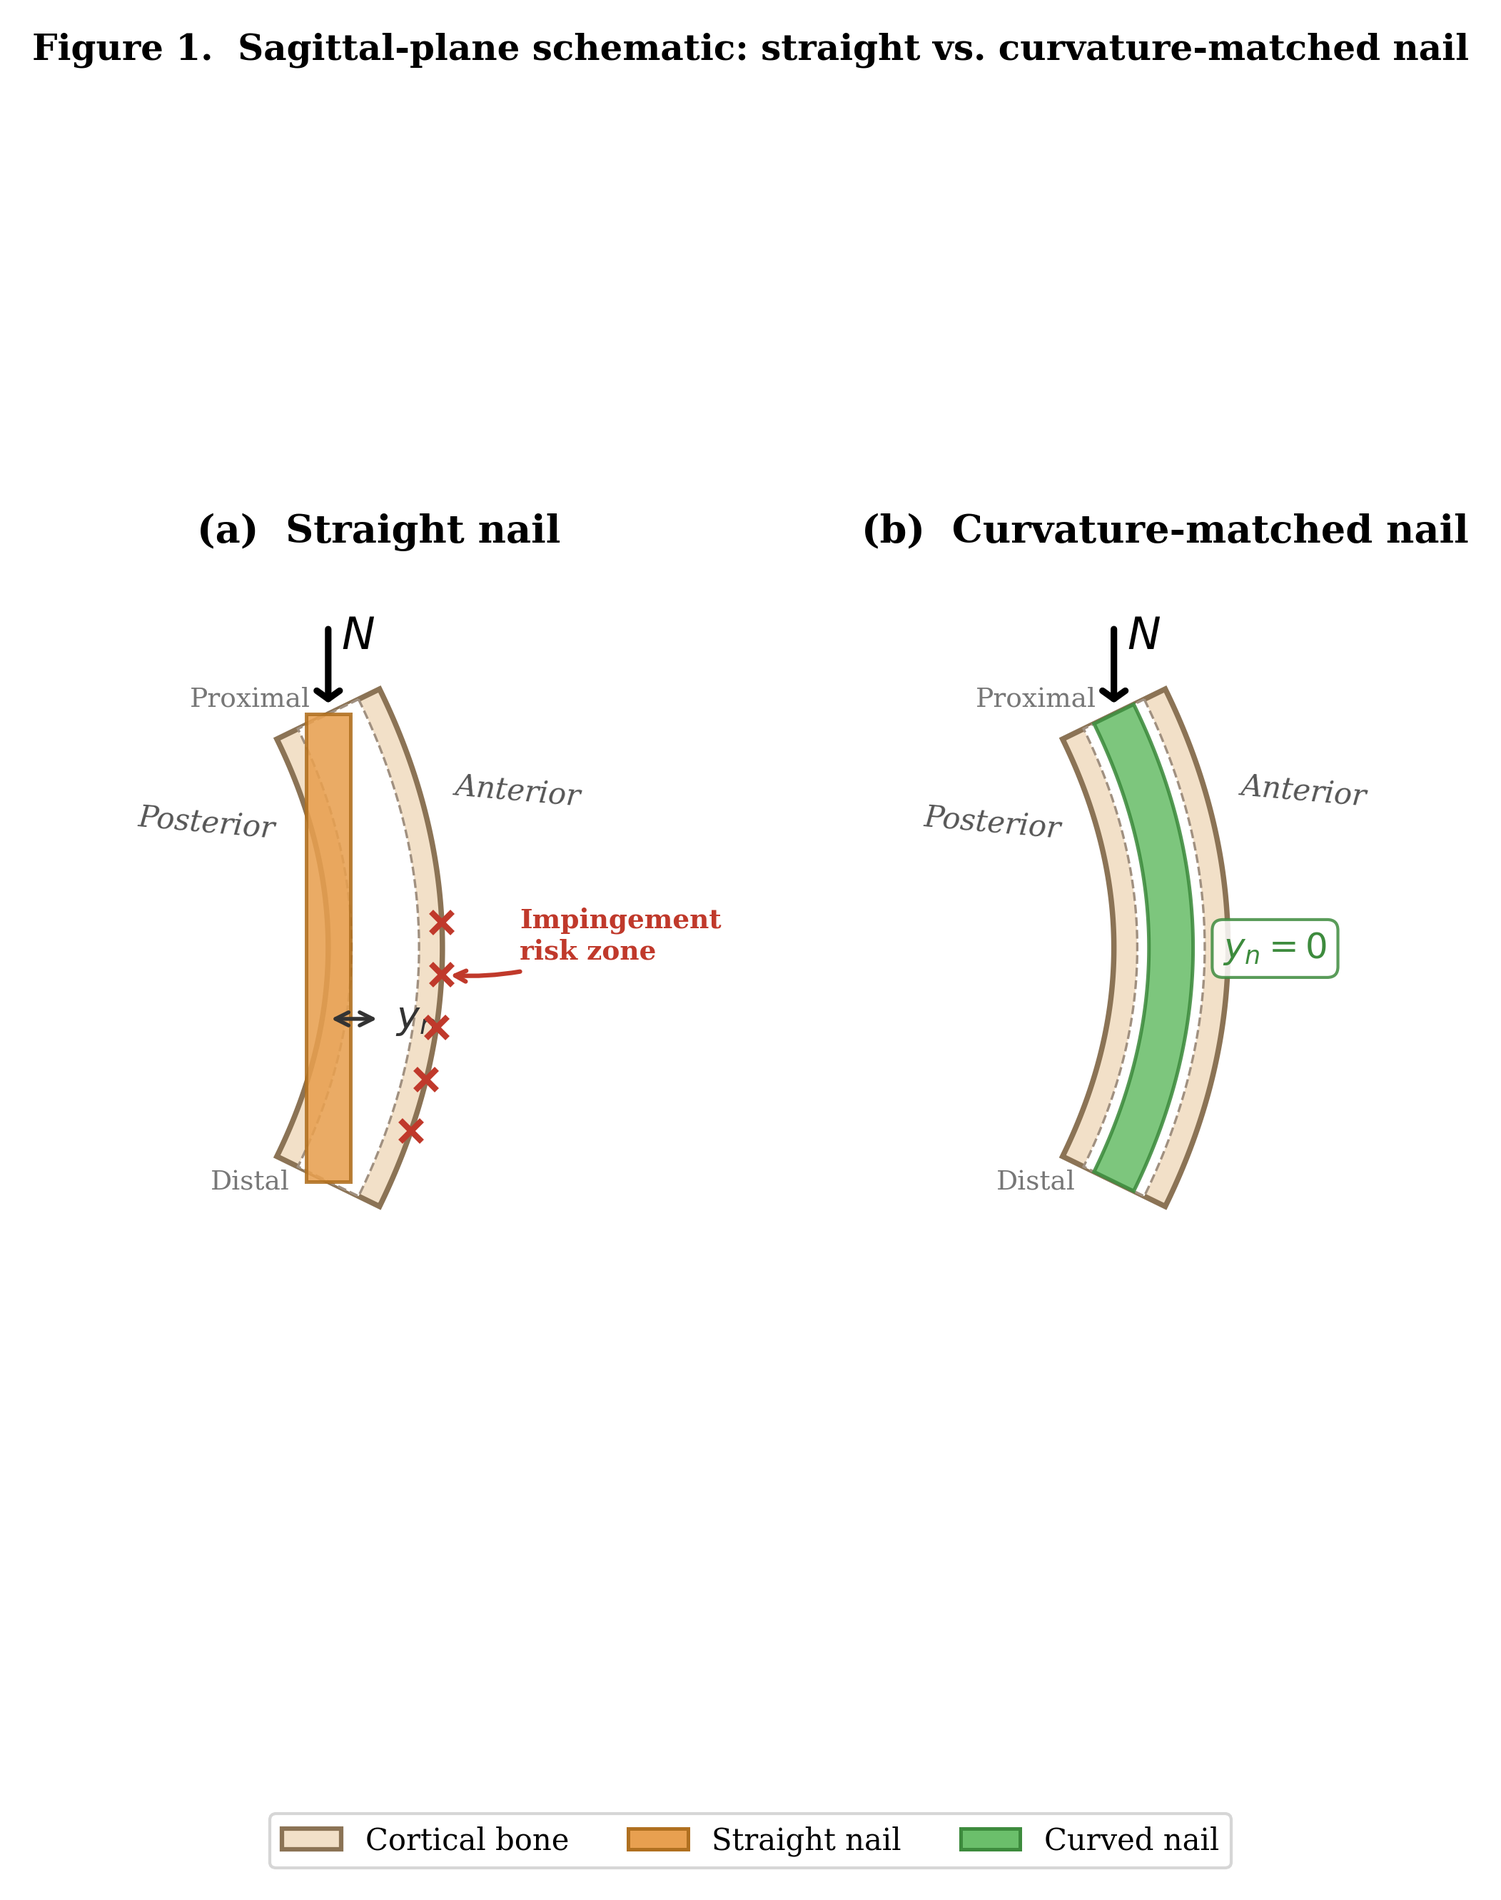
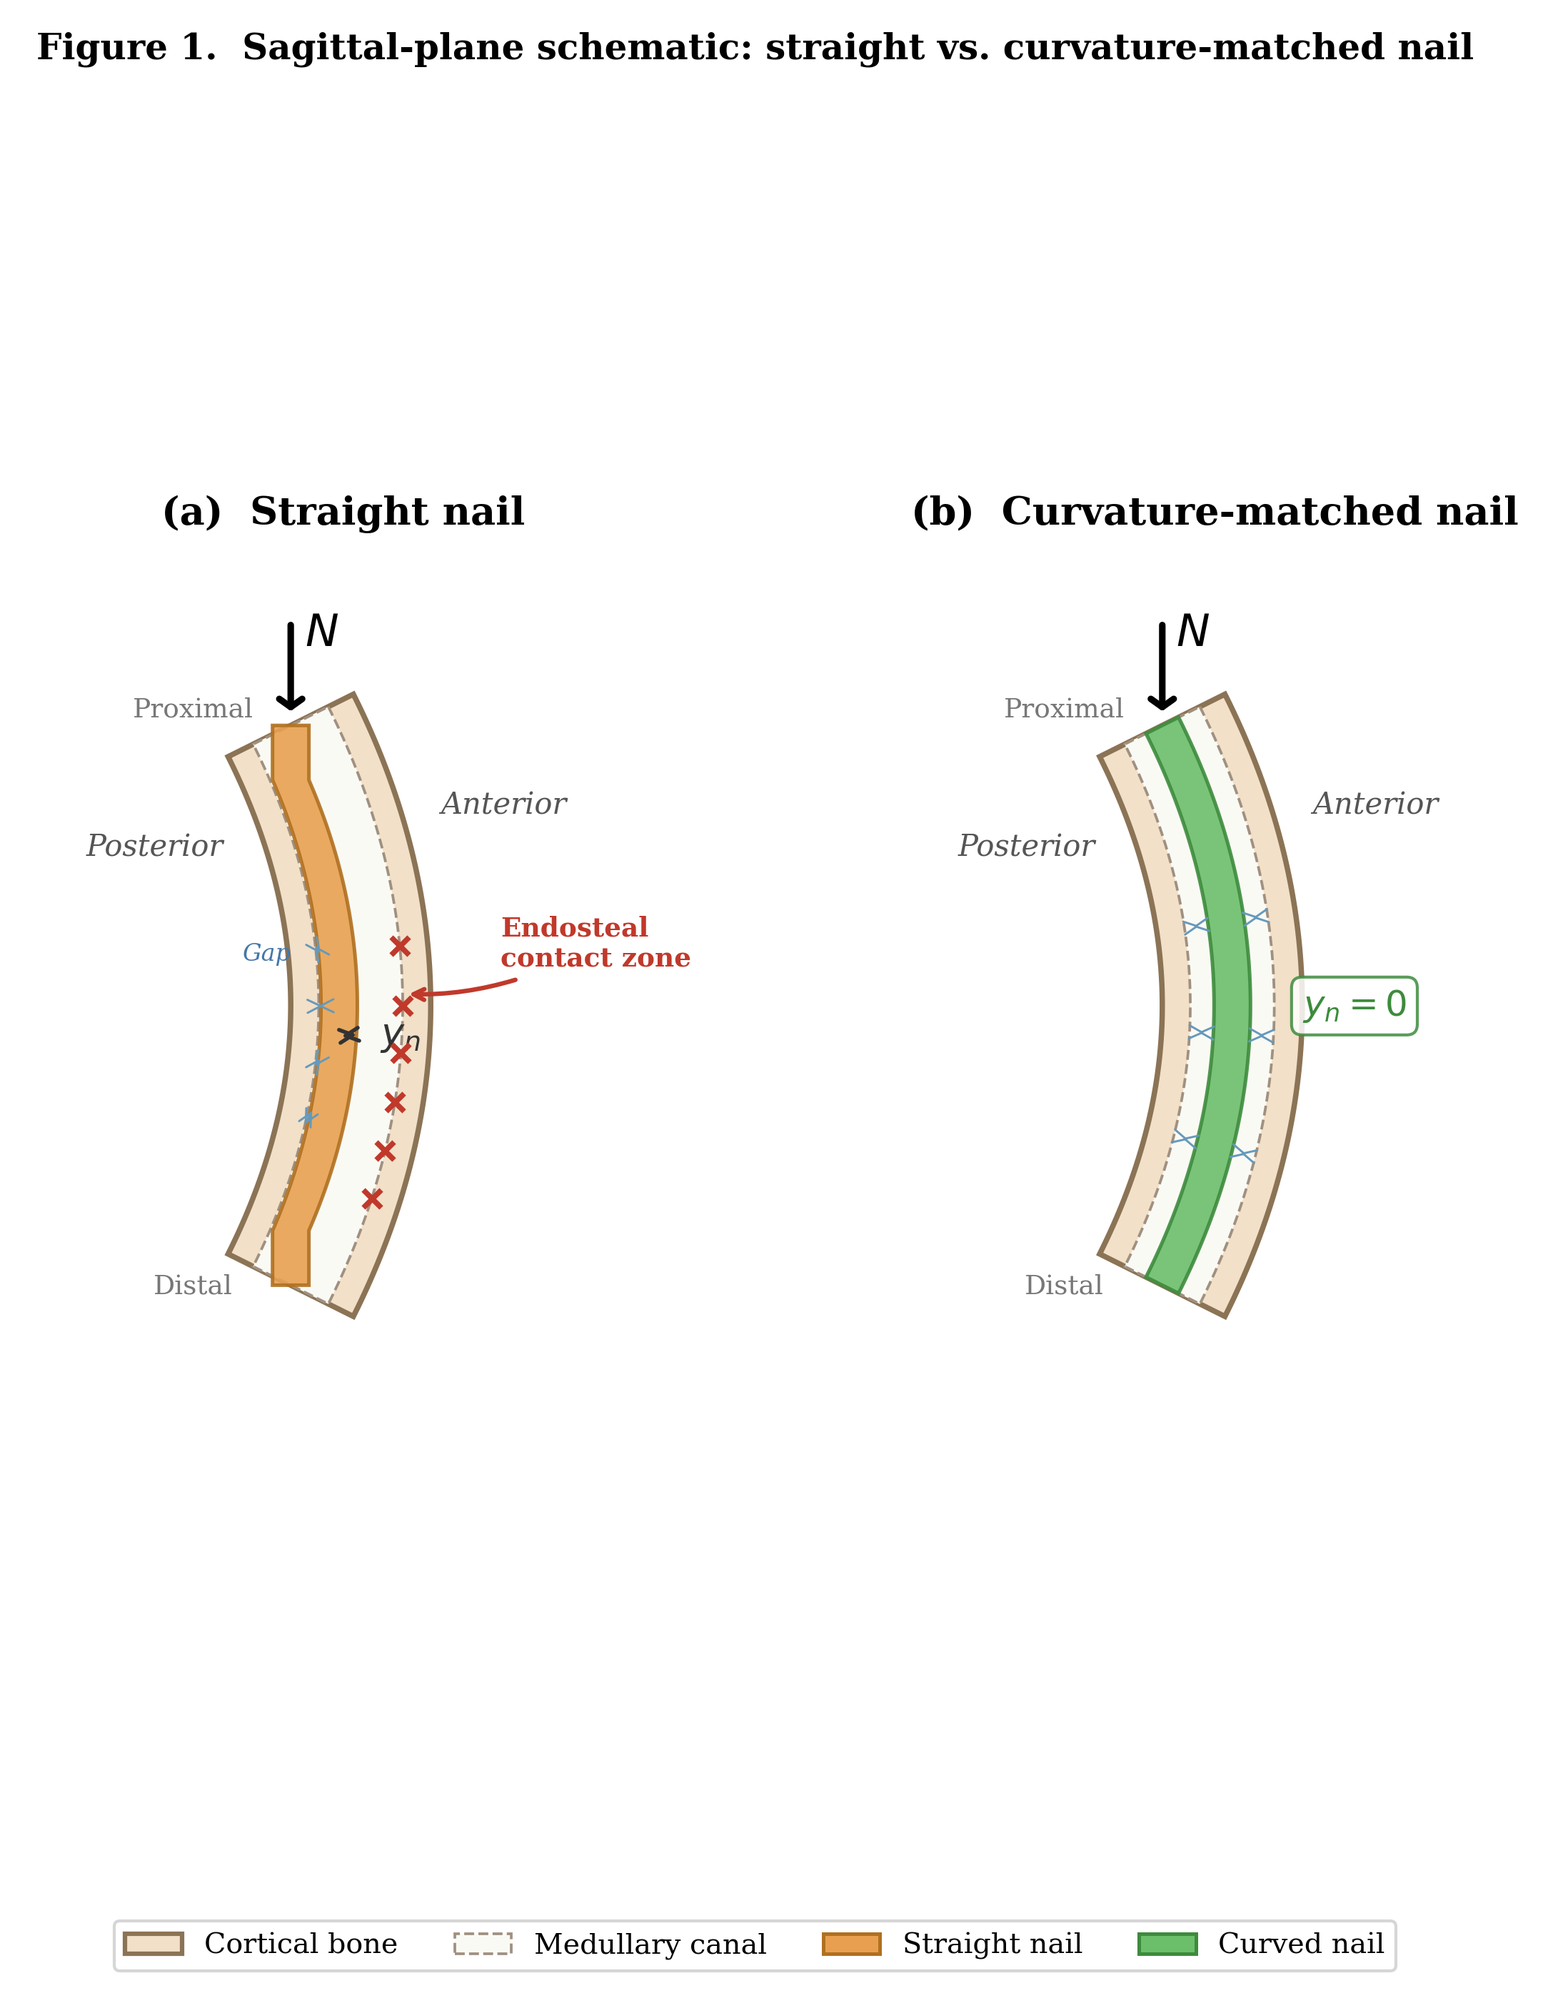
Fix Fig 1 anatomy: nail stays inside medullary canal
- Nail is now narrower than the canal (anatomically correct)
- Straight nail shifts toward anterior endosteal wall but never breaches it
- Contact markers moved to endosteal surface (not outer cortex)
- Added posterior gap indicators and uniform clearance arrows for curved nail
- Added medullary canal to legend
- Minor label tweaks on Figs 2-4

diff --git a/generate_figures.py b/generate_figures.py
@@ -54,8 +54,19 @@ NAIL_C_EDGE = "#3D8B3D"
 # FIGURE 1 — Vertical sagittal schematic: straight vs curved nail
 # ================================================================
 def fig1_schematic():
-    fig, axes = plt.subplots(1, 2, figsize=(8, 9),
-                             gridspec_kw={"wspace": 0.45})
+    """
+    Anatomical notes (from literature):
+    - IM nail enters through the greater trochanter (proximal) and sits
+      entirely INSIDE the medullary canal.
+    - The nail diameter (~9–13 mm) is smaller than the canal (~13–16 mm),
+      so there is clearance.
+    - A straight nail in a bowed femur drifts toward the ANTERIOR
+      endosteal wall at mid/distal shaft, potentially contacting it.
+    - A curved (bow-matched) nail follows the canal centreline and stays
+      centred with uniform clearance all around.
+    """
+    fig, axes = plt.subplots(1, 2, figsize=(9, 9.5),
+                             gridspec_kw={"wspace": 0.40})
 
     for ax_idx, (ax, title, nail_type) in enumerate(zip(
             axes,
@@ -65,125 +76,170 @@ def fig1_schematic():
         ax.set_aspect("equal")
         ax.axis("off")
 
-        # ── Bowed femur using a parabolic canal centreline ──
+        # ── Bowed femur (parabolic canal centreline) ──
         # Proximal = top (t=0), distal = bottom (t=1)
-        # Canal bows to the RIGHT (anterior) at mid-shaft
-        n_pts = 300
+        # Anterior = RIGHT in sagittal view
+        n_pts = 400
         t = np.linspace(0, 1, n_pts)
-        bone_height = 18.0
-        bow_amplitude = 2.2  # max lateral bow at midspan (exaggerated)
+        bone_height = 20.0
+        bow_amp = 2.5  # exaggerated peak bow at midspan
 
-        # Canal centreline: vertical + parabolic bow
-        xm = bow_amplitude * 4 * t * (1 - t)   # peaks at t=0.5
-        ym = bone_height * (1 - t)               # top to bottom
+        # Canal centreline
+        xm = bow_amp * 4 * t * (1 - t)  # parabolic bow peaking at t=0.5
+        ym = bone_height * (1 - t)       # top → bottom
 
-        # Perpendicular normals (to the right = anterior)
+        # Unit normals perpendicular to canal (anterior = +x direction)
         dx = np.gradient(xm)
         dy = np.gradient(ym)
         mag = np.sqrt(dx**2 + dy**2)
-        # Normal pointing to the right (anterior)
-        nx_u = -dy / mag
-        ny_u = dx / mag
+        nx_u = -dy / mag   # normal x (points anterior/right)
+        ny_u =  dx / mag   # normal y
 
-        bone_hw = 2.2    # bone half-width
-        canal_hw = 1.3   # canal half-width
+        bone_hw  = 2.5   # cortex outer half-width
+        canal_hw = 1.5   # endosteal (canal) half-width
+        nail_hw  = 0.65  # nail half-width — SMALLER than canal
 
-        # Cortex walls
-        xa = xm + bone_hw * nx_u;  ya = ym + bone_hw * ny_u
-        xp = xm - bone_hw * nx_u;  yp = ym - bone_hw * ny_u
-        # Canal walls
-        xca = xm + canal_hw * nx_u; yca = ym + canal_hw * ny_u
-        xcp = xm - canal_hw * nx_u; ycp = ym - canal_hw * ny_u
+        # ── Build cortex & canal boundaries ──
+        xa  = xm + bone_hw  * nx_u;  ya  = ym + bone_hw  * ny_u  # anterior cortex
+        xp  = xm - bone_hw  * nx_u;  yp  = ym - bone_hw  * ny_u  # posterior cortex
+        xca = xm + canal_hw * nx_u;  yca = ym + canal_hw * ny_u  # anterior canal wall
+        xcp = xm - canal_hw * nx_u;  ycp = ym - canal_hw * ny_u  # posterior canal wall
 
-        # Draw cortical bone (filled polygon)
-        verts_outer = list(zip(xa, ya)) + list(zip(xp[::-1], yp[::-1]))
-        ax.add_patch(plt.Polygon(verts_outer, closed=True,
+        # Draw cortical bone
+        verts_bone = list(zip(xa, ya)) + list(zip(xp[::-1], yp[::-1]))
+        ax.add_patch(plt.Polygon(verts_bone, closed=True,
                                  facecolor=BONE_FILL, edgecolor=BONE_EDGE,
                                  linewidth=1.8, zorder=1))
-
-        # Canal interior (white)
+        # Draw canal interior
         verts_canal = list(zip(xca, yca)) + list(zip(xcp[::-1], ycp[::-1]))
         ax.add_patch(plt.Polygon(verts_canal, closed=True,
-                                 facecolor="white", edgecolor=CANAL_EDGE,
-                                 linewidth=0.8, linestyle="--", zorder=2))
+                                 facecolor="#FAFAF5", edgecolor=CANAL_EDGE,
+                                 linewidth=0.9, linestyle="--", zorder=2))
 
-        # ── Nail ──
-        nail_hw = 0.85
+        # ── Nail centreline ──
         if nail_type == "straight":
-            # Straight line from proximal entry to distal entry
+            # Straight chord between proximal and distal canal entry points.
+            # The nail enters at the canal centre proximally and exits at
+            # the canal centre distally — so it's a straight line between
+            # (xm[0], ym[0]) and (xm[-1], ym[-1]).
             xn_c = np.linspace(xm[0], xm[-1], n_pts)
             yn_c = np.linspace(ym[0], ym[-1], n_pts)
             nfill, nedge = NAIL_S_FILL, NAIL_S_EDGE
         else:
-            xn_c, yn_c = xm.copy(), ym.copy()
+            # Curved nail follows the canal centreline exactly
+            xn_c = xm.copy()
+            yn_c = ym.copy()
             nfill, nedge = NAIL_C_FILL, NAIL_C_EDGE
 
-        # Nail perpendicular offsets
+        # Nail edges (perpendicular to nail path)
         dnx = np.gradient(xn_c); dny = np.gradient(yn_c)
         nmag = np.sqrt(dnx**2 + dny**2)
         nnx = -dny / nmag; nny = dnx / nmag
 
-        xna = xn_c + nail_hw * nnx; yna = yn_c + nail_hw * nny
-        xnp = xn_c - nail_hw * nnx; ynp = yn_c - nail_hw * nny
+        xna = xn_c + nail_hw * nnx;  yna = yn_c + nail_hw * nny  # anterior edge
+        xnp = xn_c - nail_hw * nnx;  ynp = yn_c - nail_hw * nny  # posterior edge
 
+        # CLAMP: ensure nail never exceeds canal walls.
+        # Project nail edges onto canal-normal axis and clamp.
+        for i in range(n_pts):
+            # Distance from canal centre to nail anterior edge, in canal-normal coords
+            nail_ant_proj = (xna[i] - xm[i]) * nx_u[i] + (yna[i] - ym[i]) * ny_u[i]
+            if nail_ant_proj > canal_hw - 0.08:
+                # Push nail anterior edge to just inside canal wall
+                overshoot = nail_ant_proj - (canal_hw - 0.08)
+                xna[i] -= overshoot * nx_u[i]
+                yna[i] -= overshoot * ny_u[i]
+                xnp[i] -= overshoot * nx_u[i]
+                ynp[i] -= overshoot * ny_u[i]
+                # Also shift centreline for annotation
+                xn_c[i] -= overshoot * nx_u[i]
+                yn_c[i] -= overshoot * ny_u[i]
+
+            nail_post_proj = (xnp[i] - xm[i]) * nx_u[i] + (ynp[i] - ym[i]) * ny_u[i]
+            if nail_post_proj < -(canal_hw - 0.08):
+                overshoot = -(canal_hw - 0.08) - nail_post_proj
+                xnp[i] += overshoot * nx_u[i]
+                ynp[i] += overshoot * ny_u[i]
+                xna[i] += overshoot * nx_u[i]
+                yna[i] += overshoot * ny_u[i]
+                xn_c[i] += overshoot * nx_u[i]
+                yn_c[i] += overshoot * ny_u[i]
+
+        # Draw nail
         verts_nail = list(zip(xna, yna)) + list(zip(xnp[::-1], ynp[::-1]))
         ax.add_patch(plt.Polygon(verts_nail, closed=True,
                                  facecolor=nfill, edgecolor=nedge,
-                                 linewidth=1.2, alpha=0.88, zorder=3))
+                                 linewidth=1.2, alpha=0.90, zorder=3))
+
+        # ── Visible gap between nail and posterior canal wall (straight nail) ──
+        # This highlights that the nail has shifted anteriorly
+        if nail_type == "straight":
+            # Draw a thin light-blue gap indicator on the posterior side
+            for frac in [0.40, 0.50, 0.60, 0.70]:
+                i = int(frac * n_pts)
+                # Small arrow from nail posterior edge → canal posterior wall
+                ax.annotate("",
+                            xy=(xcp[i] + 0.15 * nx_u[i], ycp[i] + 0.15 * ny_u[i]),
+                            xytext=(xnp[i] - 0.10 * nx_u[i], ynp[i] - 0.10 * ny_u[i]),
+                            arrowprops=dict(arrowstyle="<->", color="#6699BB",
+                                            lw=0.7, shrinkA=0, shrinkB=0),
+                            zorder=4)
+            # "gap" label
+            ig = int(0.40 * n_pts)
+            ax.text(xcp[ig] - 0.9, ycp[ig], "Gap",
+                    fontsize=8, color="#4477AA", ha="right", va="center",
+                    fontstyle="italic")
 
         # ── Force arrow at proximal end ──
         ax.annotate("",
-                    xy=(xm[0], ym[0] + 0.2),
-                    xytext=(xm[0], ym[0] + 3.5),
+                    xy=(xm[0], ym[0] + 0.3),
+                    xytext=(xm[0], ym[0] + 3.8),
                     arrowprops=dict(arrowstyle="->,head_width=0.35,"
                                    "head_length=0.25",
                                    color="black", lw=2.2), zorder=5)
-        ax.text(xm[0] + 0.5, ym[0] + 3.0, r"$N$", fontsize=15,
+        ax.text(xm[0] + 0.5, ym[0] + 3.3, r"$N$", fontsize=15,
                 fontweight="bold", ha="left", va="center")
 
-        # ── Side labels (rotated along the bone axis) ──
-        mid = n_pts // 2
-        # Place "Anterior" at 25% from top (above impingement zone)
-        q1 = int(0.20 * n_pts)
-        ax.text(xa[q1] + 1.3, ya[q1], "Anterior", fontsize=10,
-                ha="left", va="center", color="#555", fontstyle="italic",
-                rotation=-5)
-        ax.text(xp[q1] - 1.3, yp[q1], "Posterior", fontsize=10,
-                ha="right", va="center", color="#555", fontstyle="italic",
-                rotation=-5)
+        # ── Side labels ──
+        q1 = int(0.18 * n_pts)
+        ax.text(xa[q1] + 1.5, ya[q1], "Anterior", fontsize=10,
+                ha="left", va="center", color="#555", fontstyle="italic")
+        ax.text(xp[q1] - 1.5, yp[q1], "Posterior", fontsize=10,
+                ha="right", va="center", color="#555", fontstyle="italic")
 
         # ── Proximal / Distal ──
-        ax.text(xm[0] - 3.0, ym[0] + 0.3, "Proximal", fontsize=9,
+        ax.text(xm[0] - 3.5, ym[0] + 0.3, "Proximal", fontsize=9,
                 ha="center", color="#777")
-        ax.text(xm[-1] - 3.0, ym[-1] - 0.3, "Distal", fontsize=9,
+        ax.text(xm[-1] - 3.5, ym[-1] - 0.3, "Distal", fontsize=9,
                 ha="center", color="#777")
 
-        # ── Annotations for each nail type ──
+        # ── Nail-type-specific annotations ──
         if nail_type == "straight":
-            # y_n double-arrow at ~65% along bone
-            idx = int(0.65 * n_pts)
+            # y_n double-arrow: nail centreline ↔ canal centreline
+            idx = int(0.55 * n_pts)
             ax.annotate("",
                         xy=(xn_c[idx], yn_c[idx]),
                         xytext=(xm[idx], ym[idx]),
                         arrowprops=dict(arrowstyle="<->", color="#333",
                                         lw=1.3, shrinkA=1, shrinkB=1),
                         zorder=6)
-            lx = max(xn_c[idx], xm[idx]) + 0.6
+            lx = max(xn_c[idx], xm[idx]) + 0.7
             ly = (yn_c[idx] + ym[idx]) / 2
             ax.text(lx, ly, r"$y_n$", fontsize=13, fontweight="bold",
                     ha="left", va="center", color="#333")
 
-            # Impingement X markers along anterior cortex
-            for frac in [0.45, 0.55, 0.65, 0.75, 0.85]:
+            # Contact markers on the ANTERIOR CANAL WALL (endosteal surface)
+            # — this is where the nail presses, NOT on the outer cortex
+            for frac in [0.40, 0.50, 0.58, 0.66, 0.74, 0.82]:
                 i2 = int(frac * n_pts)
-                ax.plot(xa[i2], ya[i2], "x", color=C_ALLOW,
-                        markersize=7, markeredgewidth=2.0, zorder=6)
+                ax.plot(xca[i2], yca[i2], "x", color=C_ALLOW,
+                        markersize=6, markeredgewidth=1.8, zorder=6)
 
-            # Impingement label
-            i_imp = int(0.55 * n_pts)
-            ax.annotate("Impingement\nrisk zone",
-                        xy=(xa[i_imp] + 0.1, ya[i_imp]),
-                        xytext=(xa[i_imp] + 3.0, ya[i_imp] + 1.5),
+            # Impingement label pointing to anterior canal wall
+            i_imp = int(0.48 * n_pts)
+            ax.annotate("Endosteal\ncontact zone",
+                        xy=(xca[i_imp], yca[i_imp]),
+                        xytext=(xca[i_imp] + 3.5, yca[i_imp] + 1.8),
                         fontsize=9, color=C_ALLOW, fontweight="bold",
                         ha="left", va="center",
                         arrowprops=dict(arrowstyle="->", color=C_ALLOW,
@@ -191,19 +247,35 @@ def fig1_schematic():
                                         connectionstyle="arc3,rad=-0.15"),
                         zorder=6)
         else:
-            # y_n = 0 label
-            ax.text(xm[mid] + 2.0, ym[mid], r"$y_n = 0$",
+            # y_n = 0 label with box
+            mid = n_pts // 2
+            ax.text(xm[mid] + 2.5, ym[mid], r"$y_n = 0$",
                     fontsize=12, ha="left", va="center",
                     color=NAIL_C_EDGE, fontweight="bold",
                     bbox=dict(facecolor="white", edgecolor=NAIL_C_EDGE,
                               boxstyle="round,pad=0.3", alpha=0.85))
 
-        # Auto-set axis limits with padding
+            # Show uniform clearance arrows
+            for frac in [0.35, 0.55, 0.75]:
+                i = int(frac * n_pts)
+                # Anterior gap
+                ax.annotate("",
+                            xy=(xca[i] - 0.1 * nx_u[i], yca[i] - 0.1 * ny_u[i]),
+                            xytext=(xna[i] + 0.1 * nx_u[i], yna[i] + 0.1 * ny_u[i]),
+                            arrowprops=dict(arrowstyle="<->", color="#6699BB",
+                                            lw=0.7), zorder=4)
+                # Posterior gap
+                ax.annotate("",
+                            xy=(xcp[i] + 0.1 * nx_u[i], ycp[i] + 0.1 * ny_u[i]),
+                            xytext=(xnp[i] - 0.1 * nx_u[i], ynp[i] - 0.1 * ny_u[i]),
+                            arrowprops=dict(arrowstyle="<->", color="#6699BB",
+                                            lw=0.7), zorder=4)
+
+        # Auto-set axis limits
         all_x = np.concatenate([xa, xp])
         all_y = np.concatenate([ya, yp])
-        pad_x, pad_y = 6.5, 4.5
-        ax.set_xlim(all_x.min() - pad_x, all_x.max() + pad_x + 1.5)
-        ax.set_ylim(all_y.min() - pad_y, all_y.max() + pad_y)
+        ax.set_xlim(all_x.min() - 7, all_x.max() + 8)
+        ax.set_ylim(all_y.min() - 4.5, all_y.max() + 5)
 
         ax.set_title(title, fontsize=13, fontweight="bold", pad=10)
 
@@ -211,13 +283,15 @@ def fig1_schematic():
     legend_elements = [
         mpatches.Patch(facecolor=BONE_FILL, edgecolor=BONE_EDGE,
                        lw=1.5, label="Cortical bone"),
+        mpatches.Patch(facecolor="#FAFAF5", edgecolor=CANAL_EDGE,
+                       lw=0.9, linestyle="--", label="Medullary canal"),
         mpatches.Patch(facecolor=NAIL_S_FILL, edgecolor=NAIL_S_EDGE,
                        lw=1.2, label="Straight nail"),
         mpatches.Patch(facecolor=NAIL_C_FILL, edgecolor=NAIL_C_EDGE,
                        lw=1.2, label="Curved nail"),
     ]
-    fig.legend(handles=legend_elements, loc="lower center", ncol=3,
-              frameon=True, fontsize=10, bbox_to_anchor=(0.5, 0.01),
+    fig.legend(handles=legend_elements, loc="lower center", ncol=4,
+              frameon=True, fontsize=9.5, bbox_to_anchor=(0.5, 0.01),
               edgecolor="#ccc")
 
     fig.suptitle(
